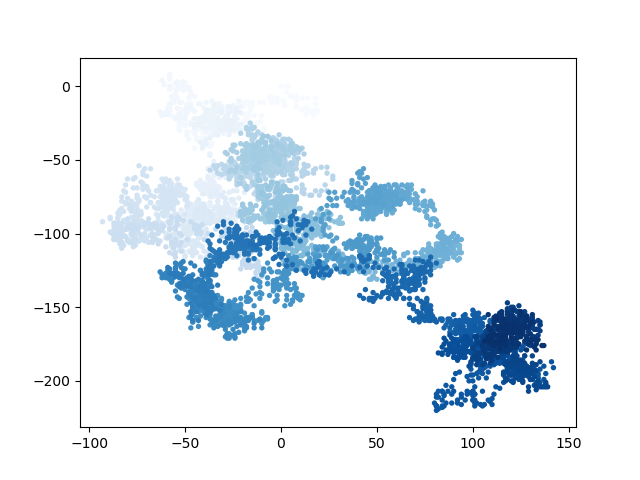
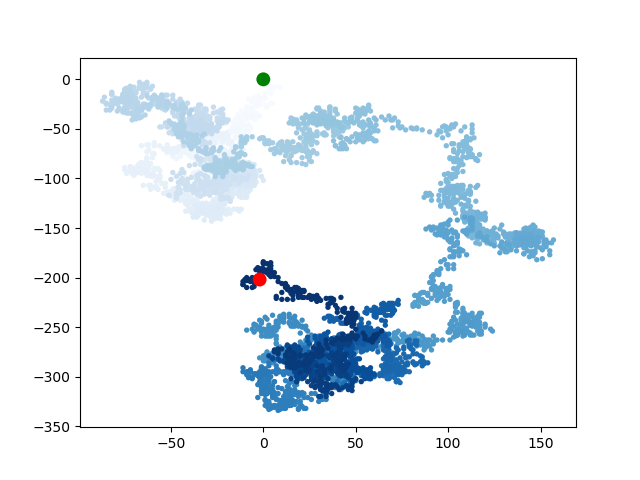
random walk with axis turned off

diff --git a/rw_visual.py b/rw_visual.py
@@ -7,11 +7,18 @@ while True:
     #Make a random walk, and plot the points.
     rw = RandomWalk()
     rw.fill_walk()
-    
     point_numbers = list(range(rw.num_points))
     plt.scatter(rw.x_values, rw.y_values, c=point_numbers, cmap=plt.cm.Blues,
                 edgecolor='none', s=15)
-    plt.savefig('Random walk with the Blue colormap')
+    
+    #Emphasize the first and last points.
+    plt.scatter(0, 0, c='green', edgecolors='none', s=100)
+    plt.scatter(rw.x_values[-1], rw.y_values[-1], c='red', edgecolor='none',
+                s=100)
+    
+    plt.axes().get_xaxis().set_visible(False)
+    plt.axes().get_yaxis().set_visible(False)
+    plt.show('Random walk with the Blue colormap and start_end point')
     
     keep_running = input("Make another walk? (y/n): ")
     if keep_running == 'n':
